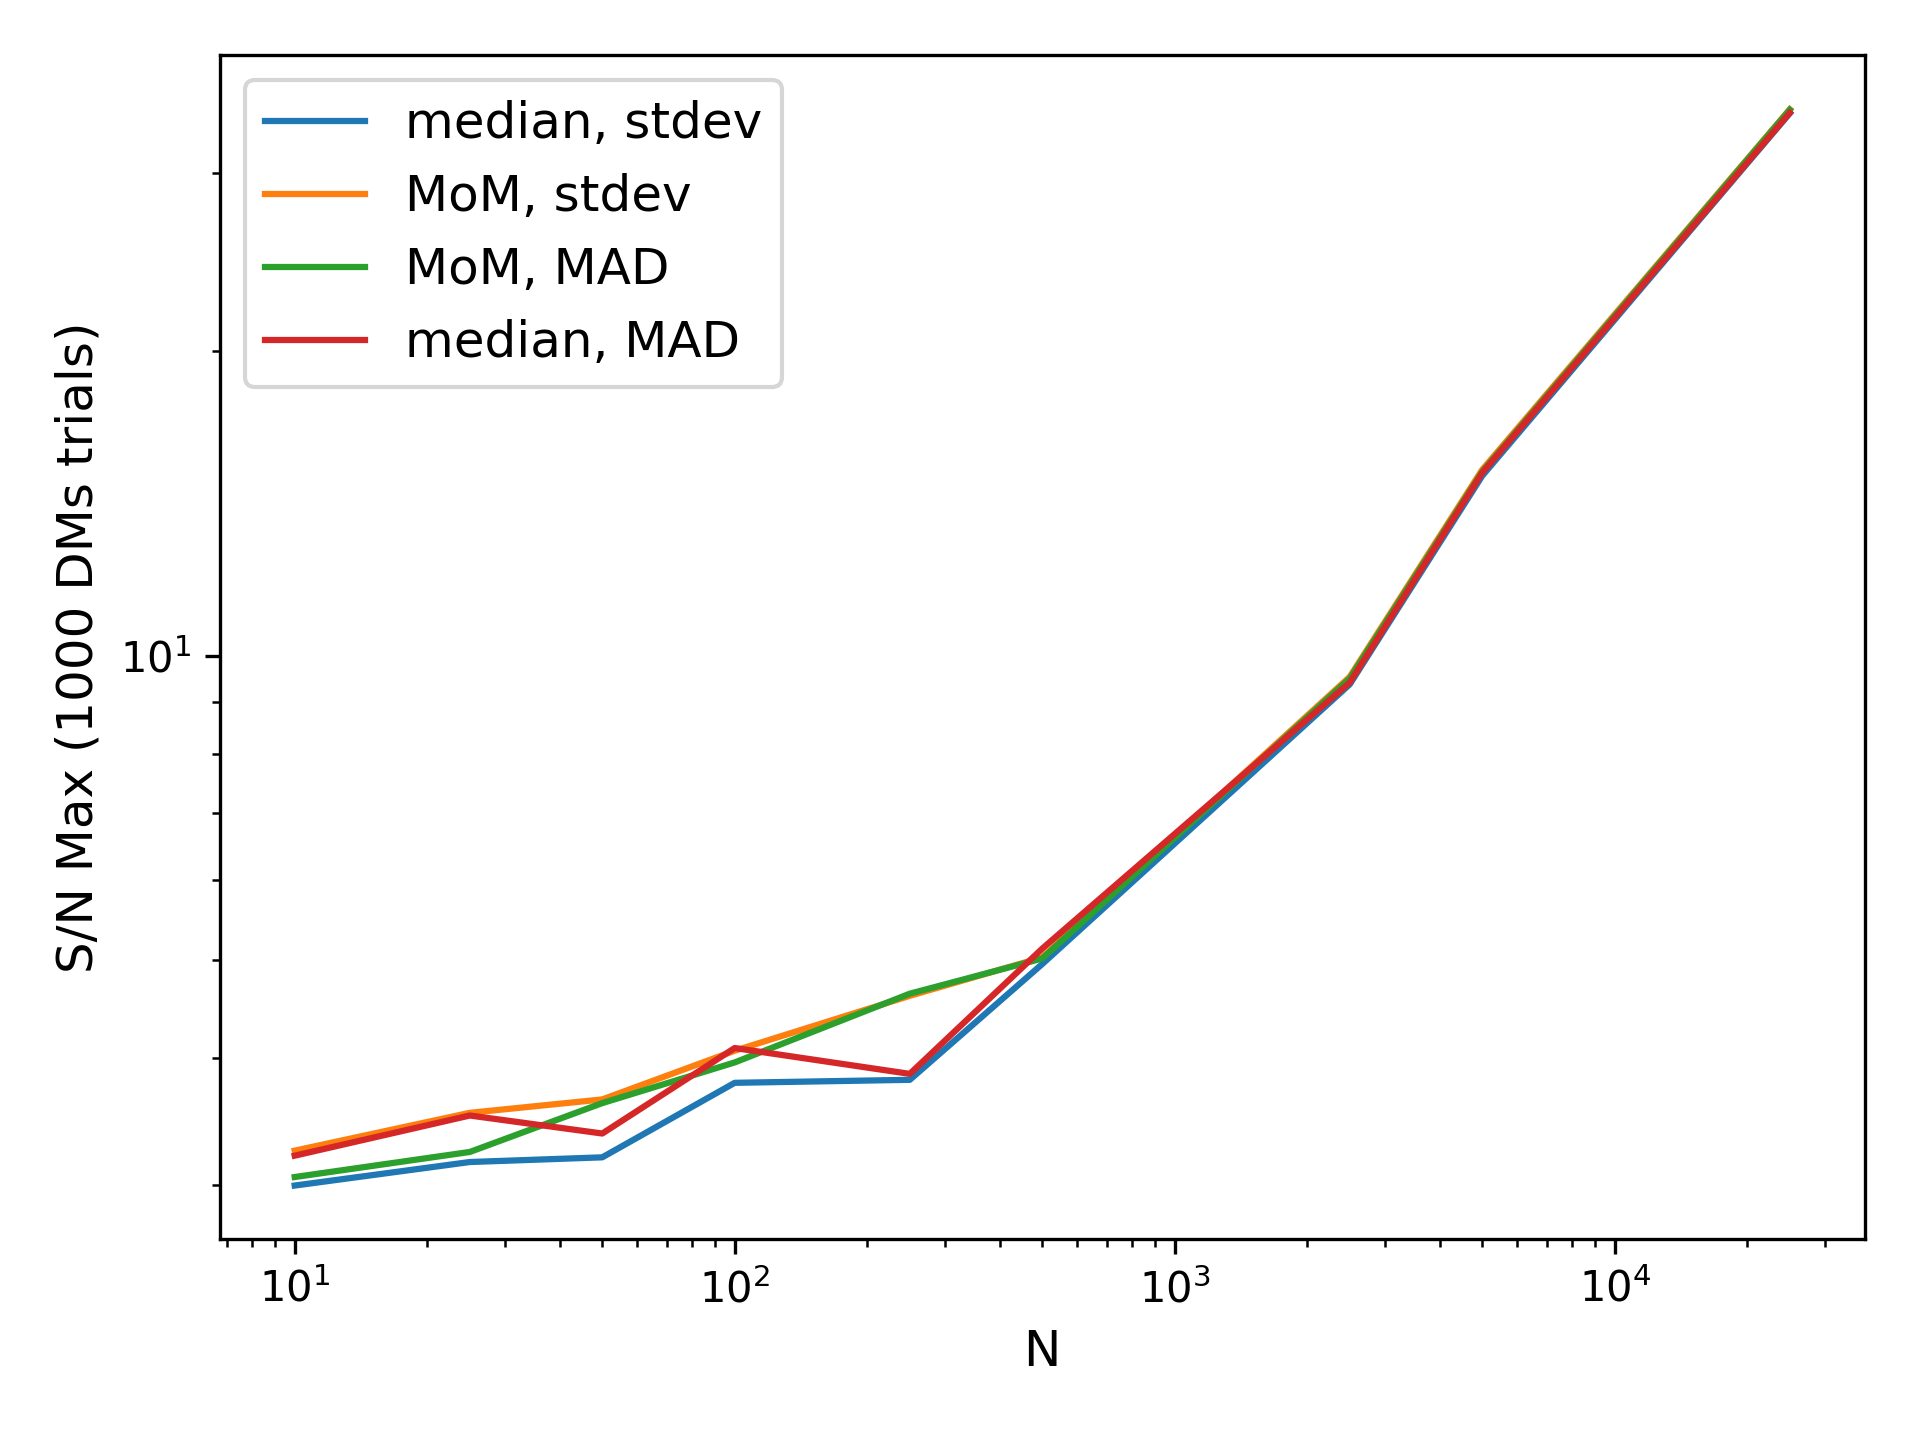
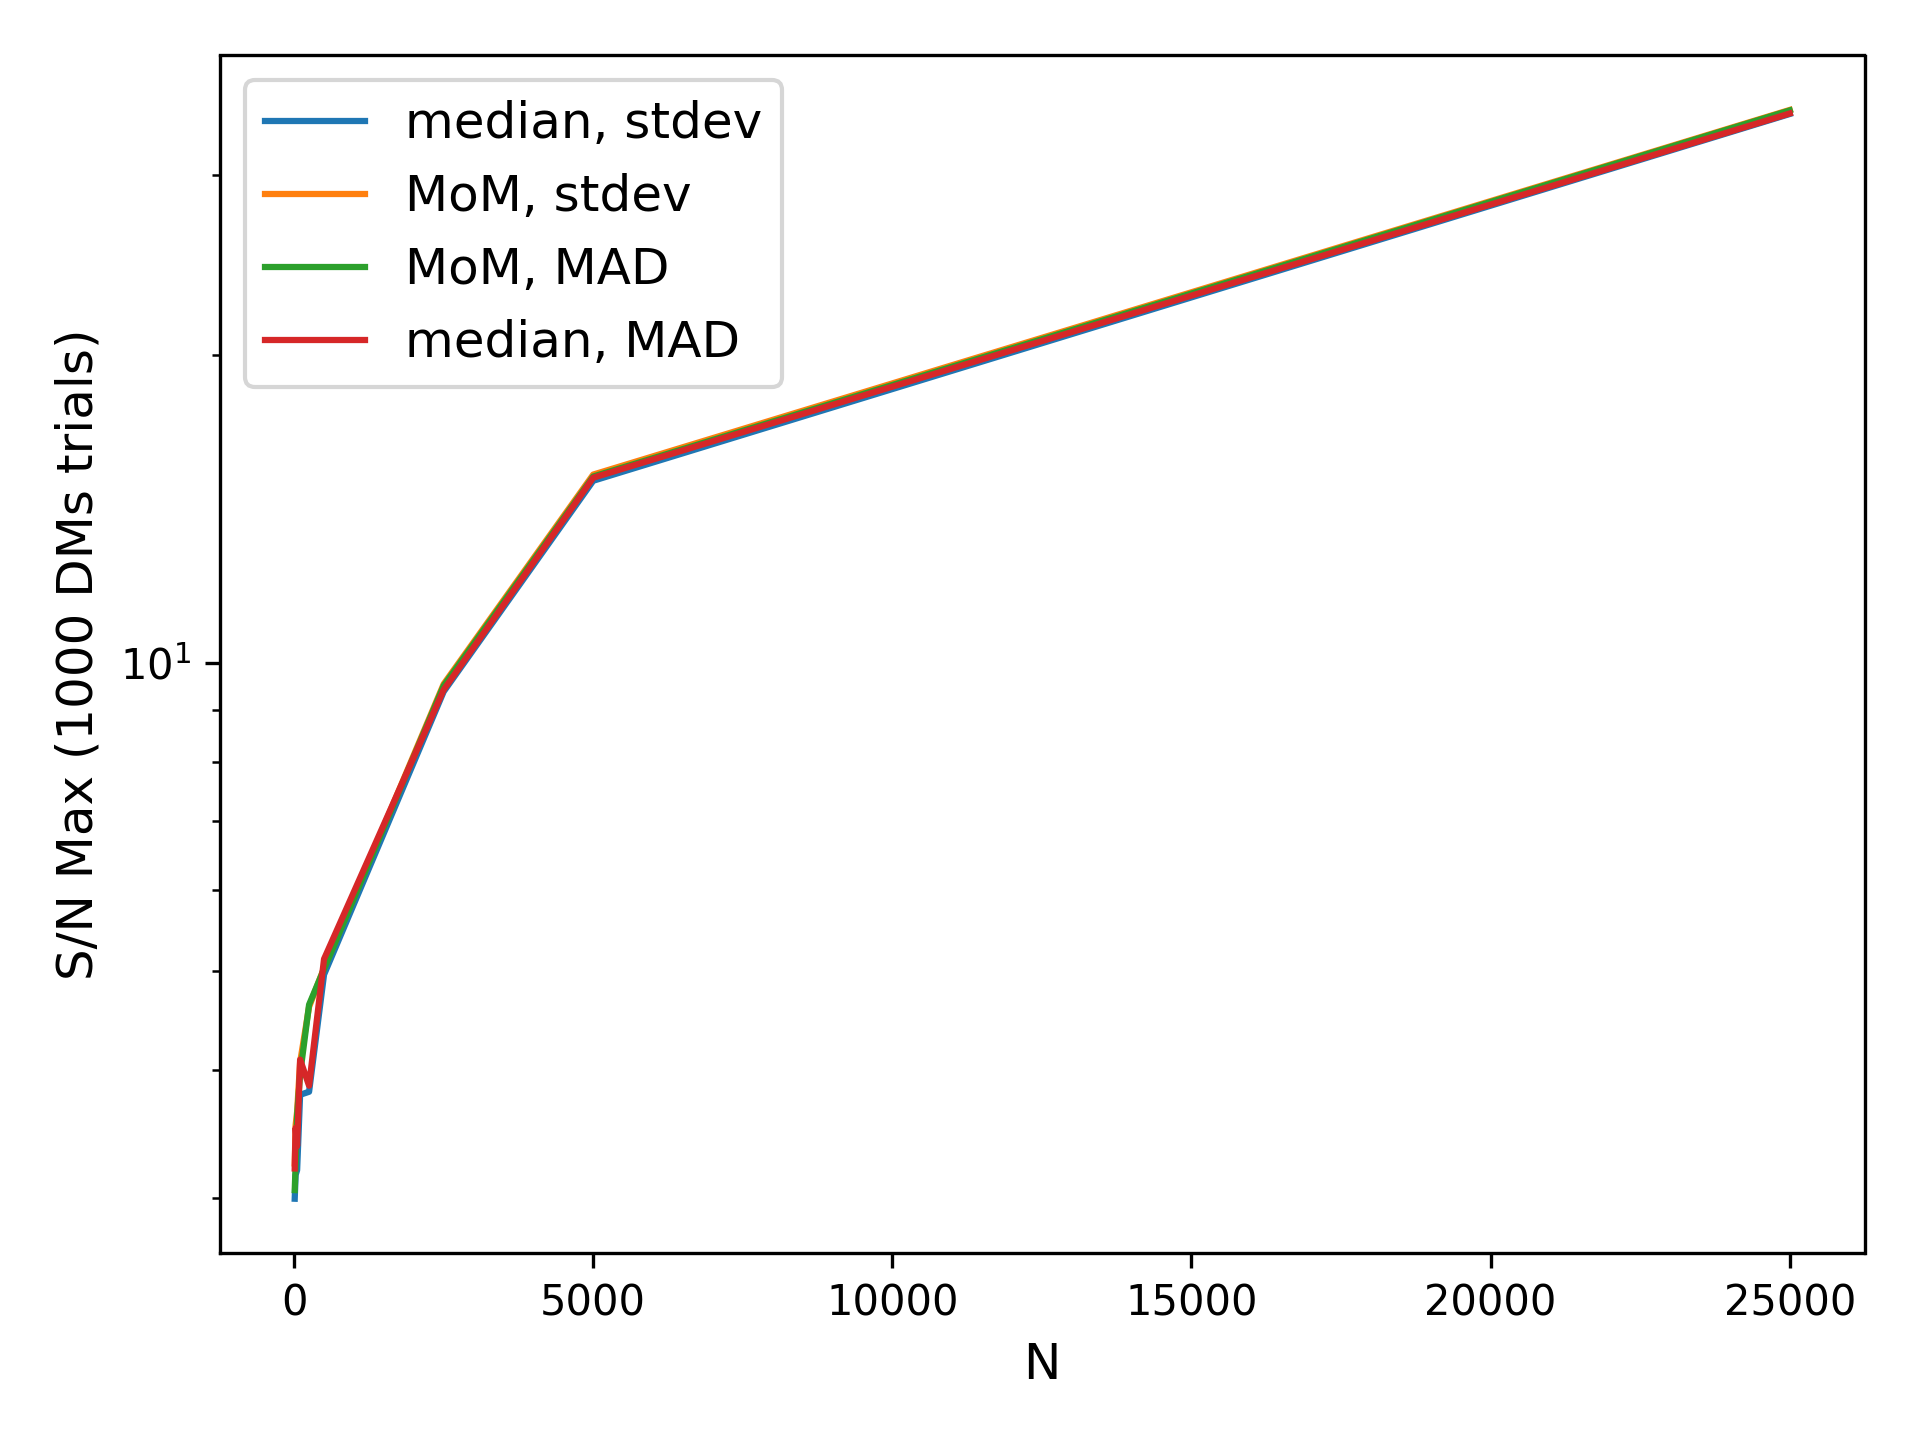
Redo a few figures

diff --git a/research_documentation/mad_stdev_filterbank.py b/research_documentation/mad_stdev_filterbank.py
@@ -135,7 +135,7 @@ def make_plot(S1, S2, S3, S4, N, **kwargs):
 
 def check_defaults(**kwargs):
     if kwargs['xscale'] == None:
-        kwargs['xscale'] = 'log'
+        kwargs['xscale'] = 'linear'
 
     if kwargs['yscale'] == None:
         kwargs['yscale'] = 'linear'
